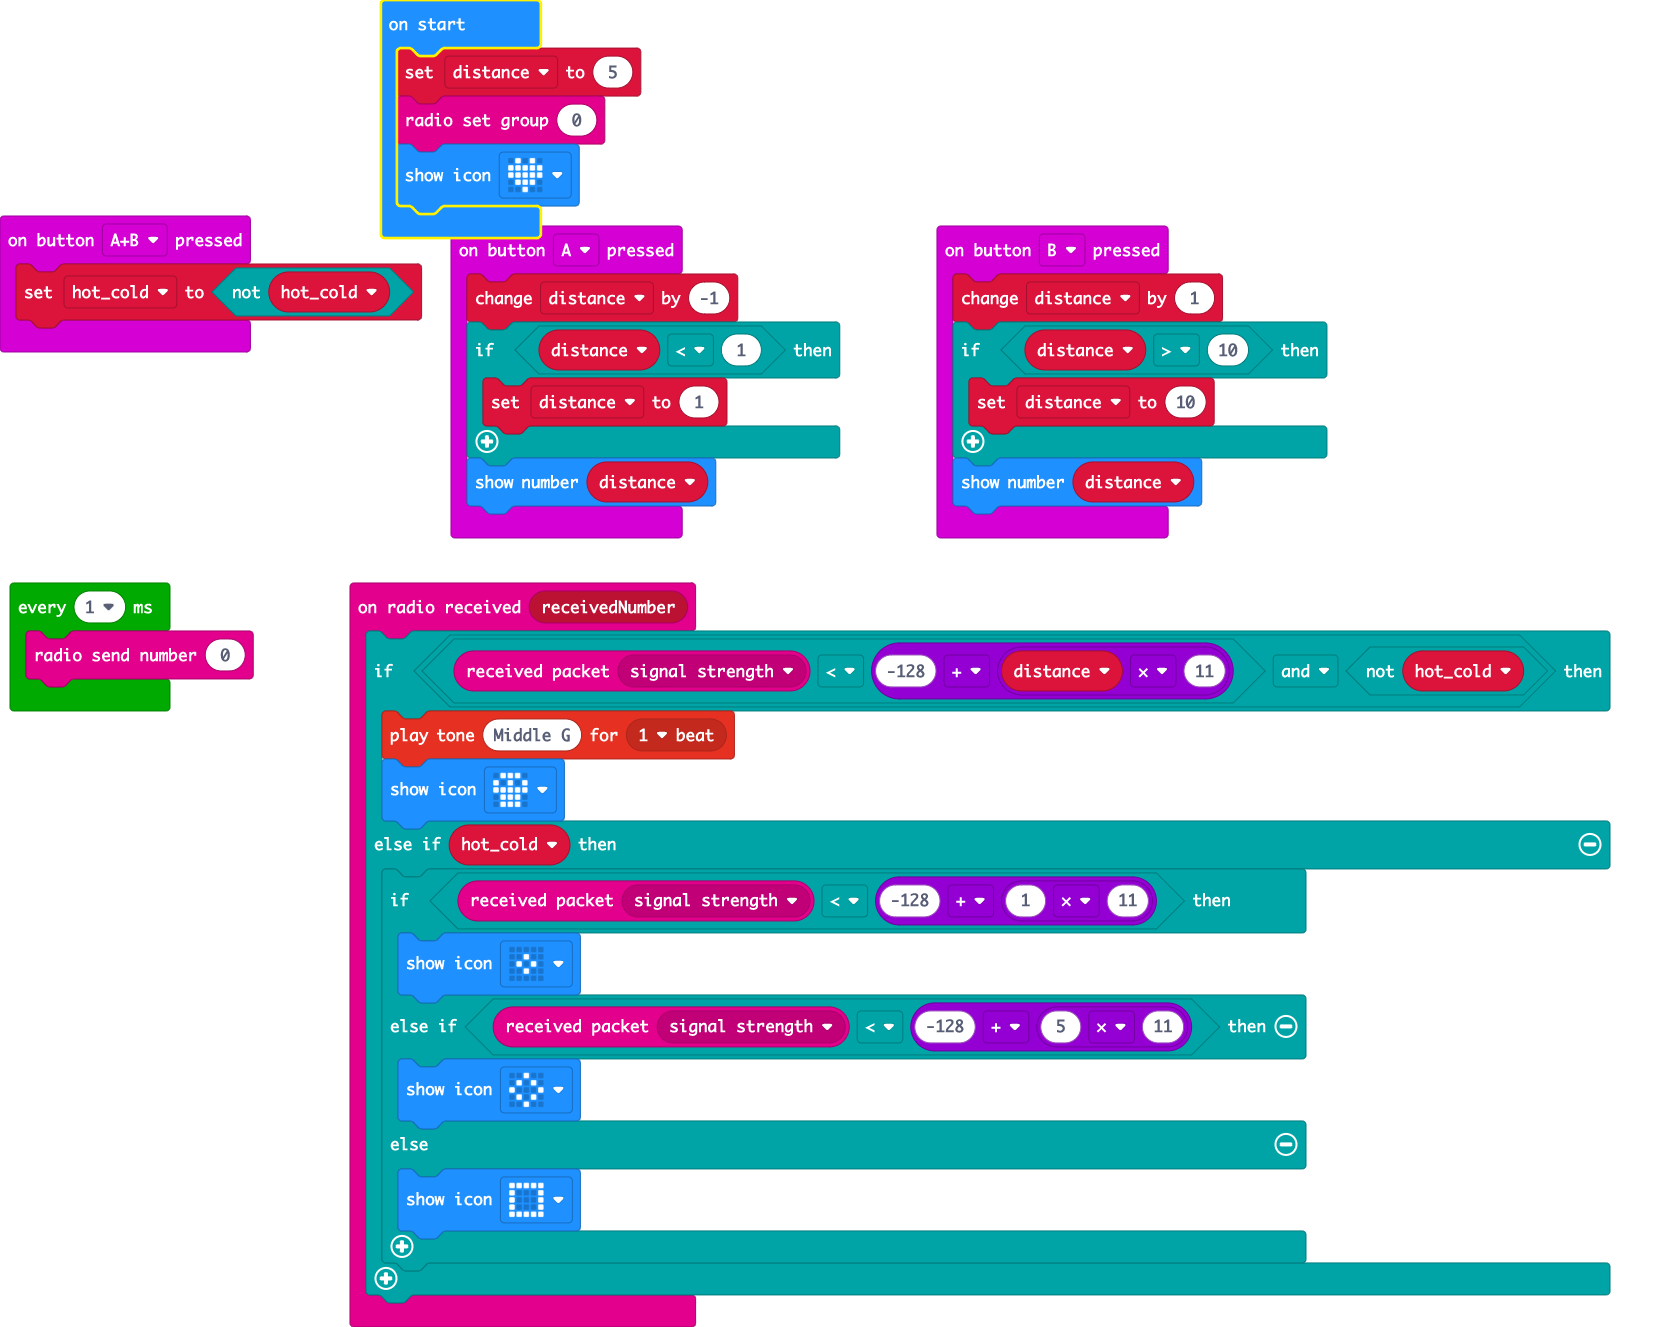
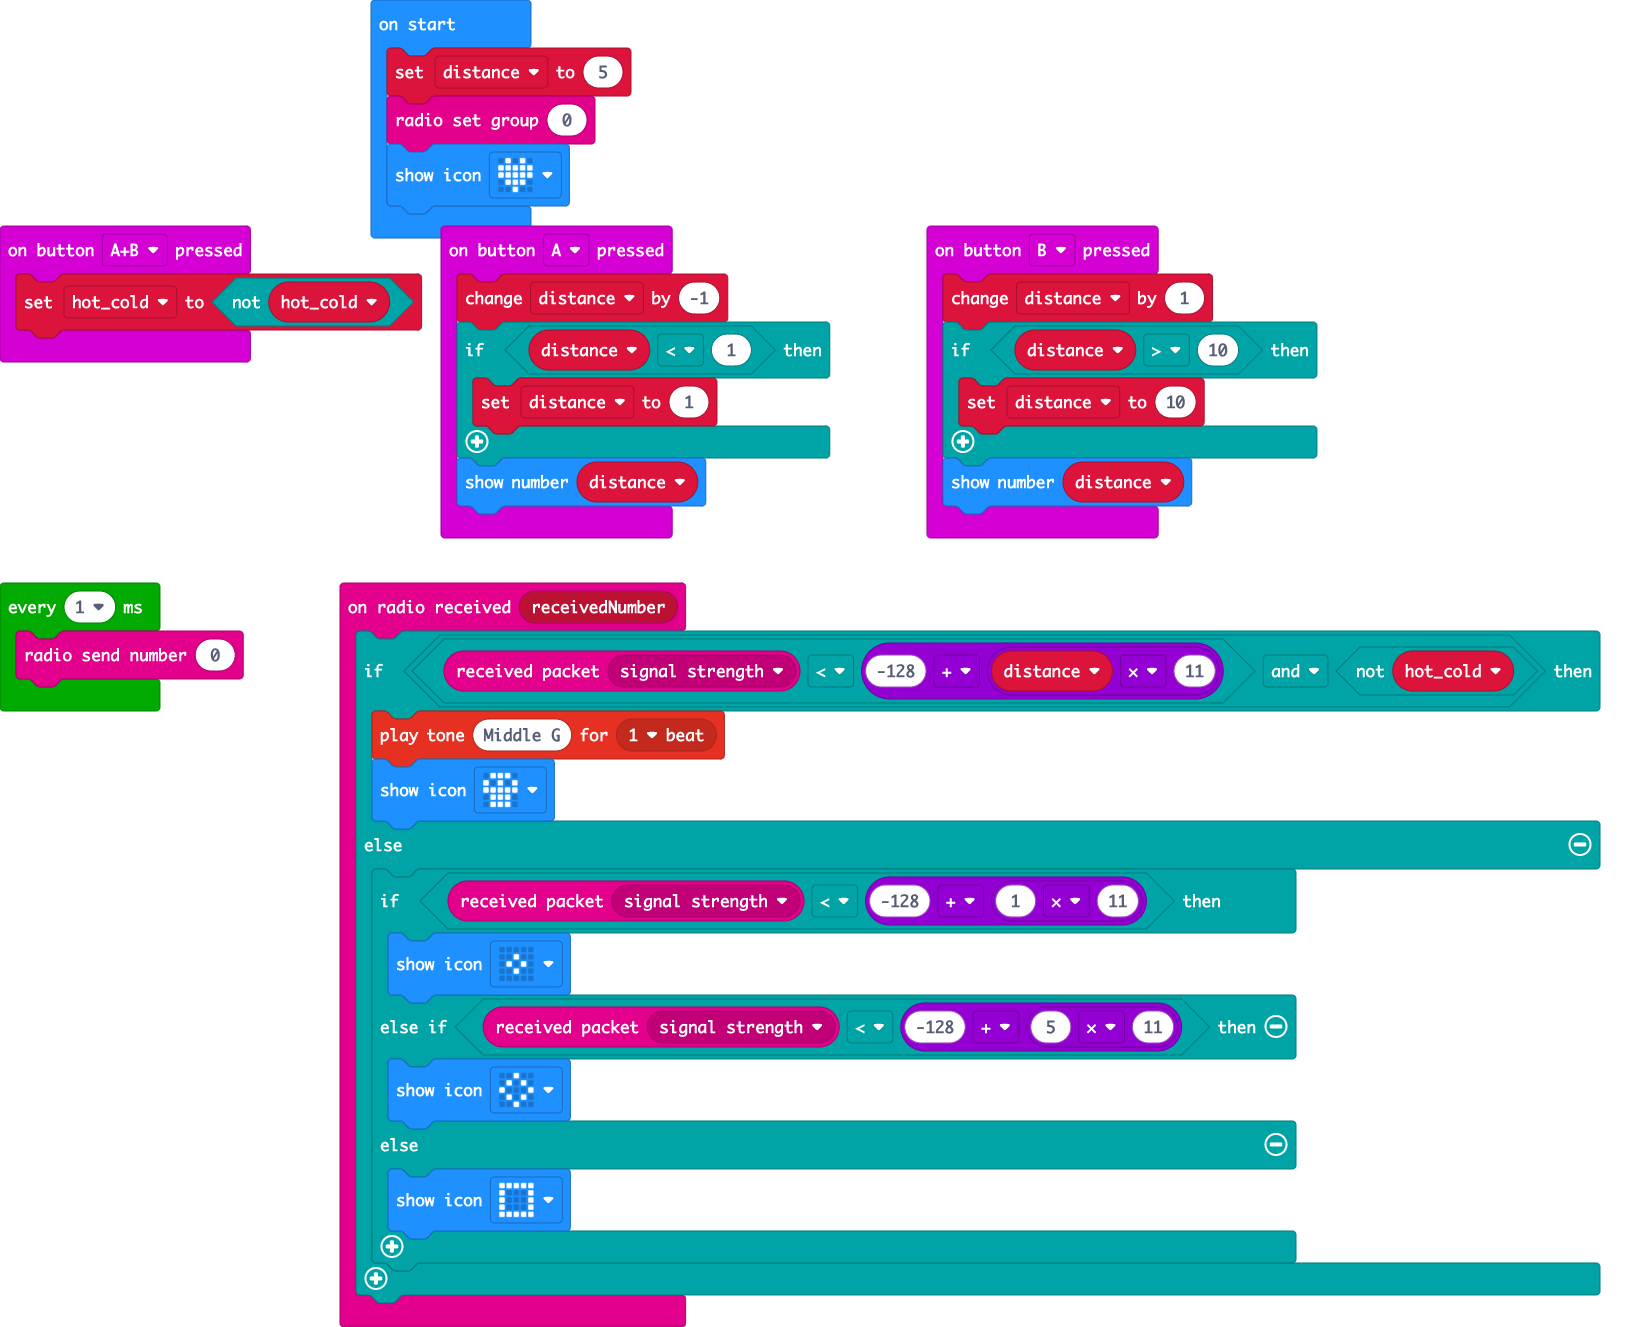
Update main.blocks, main.ts

diff --git a/main.ts b/main.ts
@@ -3,9 +3,9 @@ radio.onReceivedNumber(function (receivedNumber) {
         music.playTone(392, music.beat(BeatFraction.Whole))
         basic.showIcon(IconNames.Skull)
     } else {
-        if (radio.receivedPacket(RadioPacketProperty.SignalStrength) < -128 + 1 * 11) {
+        if (radio.receivedPacket(RadioPacketProperty.SignalStrength) < (-128 + (2 * 11))) {
             basic.showIcon(IconNames.SmallDiamond)
-        } else if (radio.receivedPacket(RadioPacketProperty.SignalStrength) < -128 + 5 * 11) {
+        } else if (radio.receivedPacket(RadioPacketProperty.SignalStrength) < (-128 + (5 * 11))) {
             basic.showIcon(IconNames.Diamond)
         } else {
             basic.showIcon(IconNames.Square)
